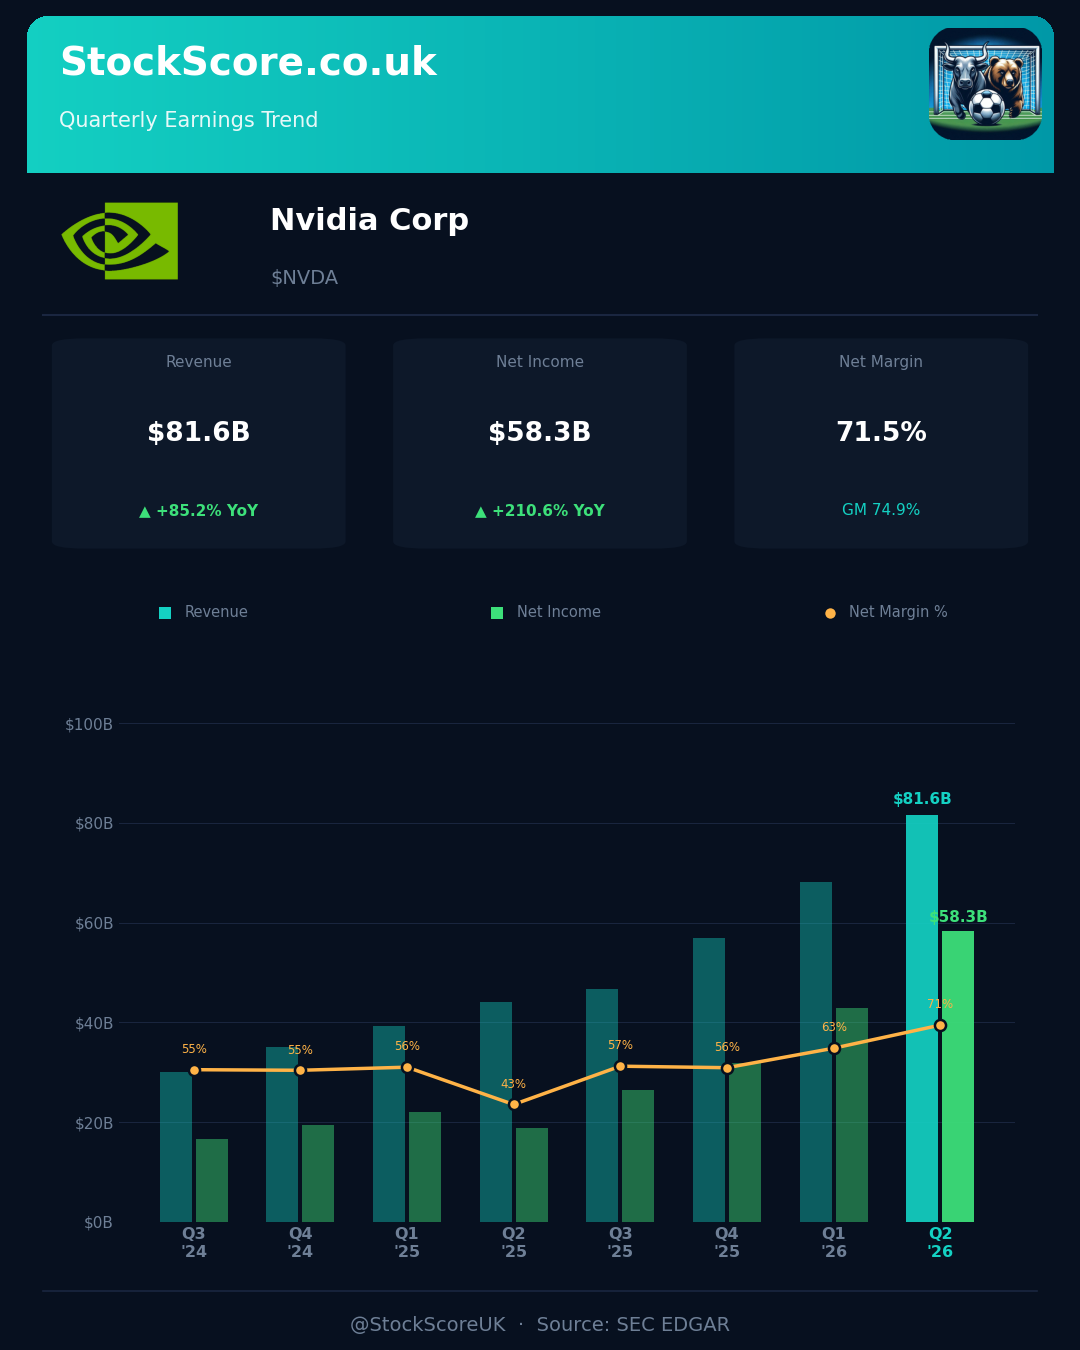
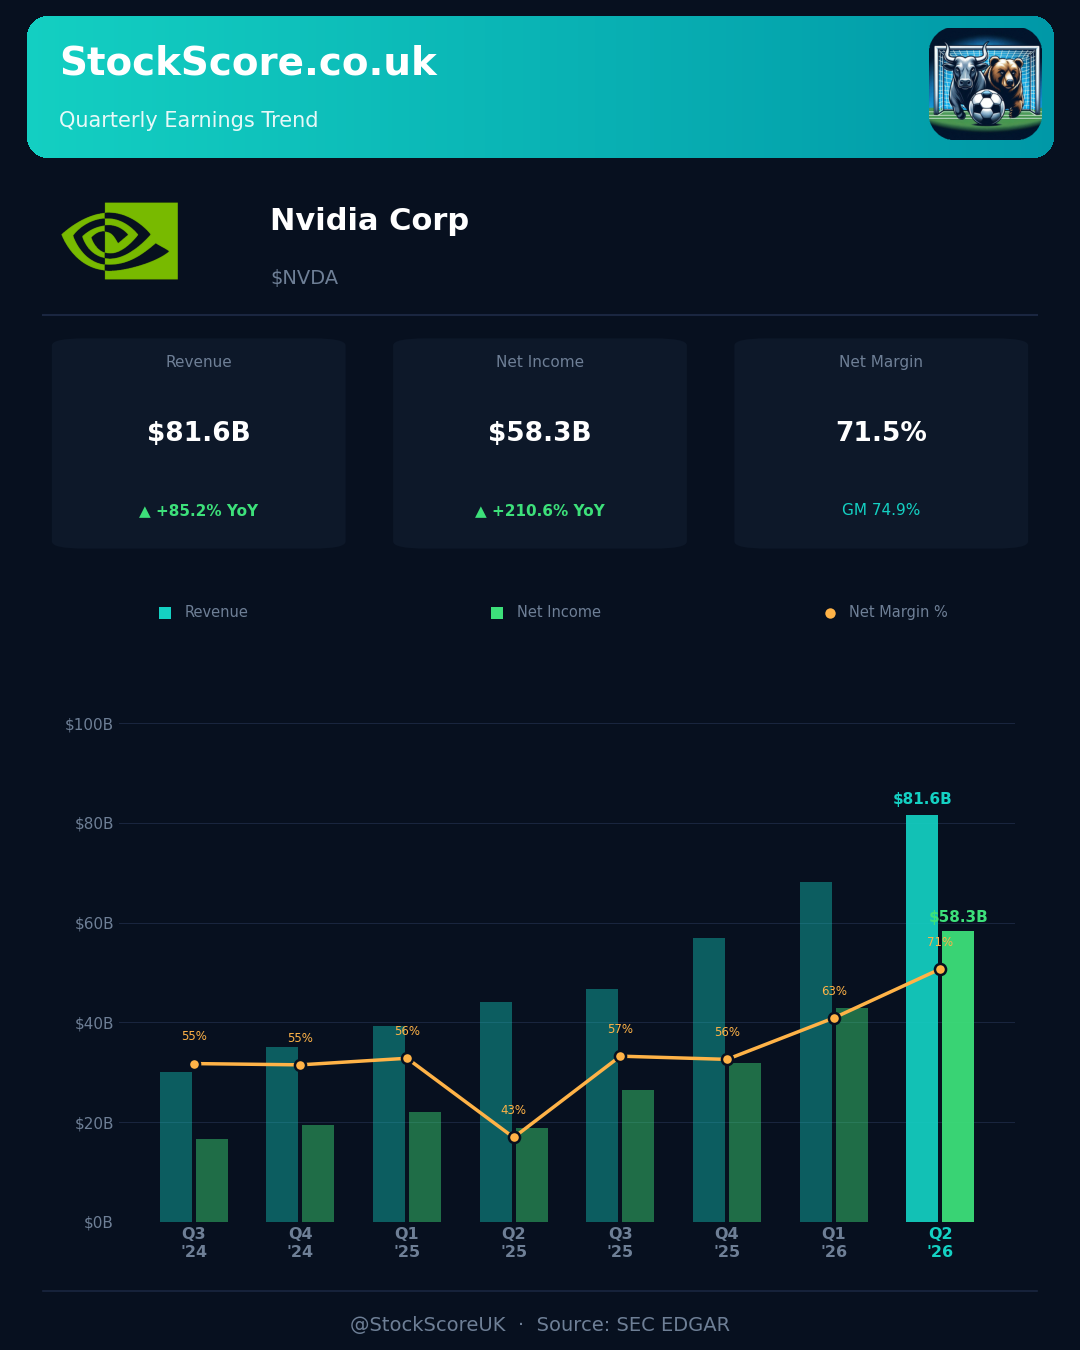
create new workflow for earnings trends

diff --git a/scripts/sec_trend_chart.py b/scripts/sec_trend_chart.py
@@ -263,14 +263,13 @@ def apply_rounded_header(filepath: str, corner_r: int = 20):
     card_xl = round(w * 0.025)
     card_xr = w - card_xl
     card_yt = round(hdr_h * 0.09)
-    card_yb = hdr_h - 1   # card ends at last header row — never bleeds below
+    card_yb = hdr_h - card_yt  # equal padding top and bottom
 
     mask = Image.new("L", (w, h), 0)
     draw = ImageDraw.Draw(mask)
-    # Rounded rect (all 4 corners), then fill the bottom band to make bottom straight.
+    # All 4 corners rounded — card now floats with equal padding above and below.
     draw.rounded_rectangle([card_xl, card_yt, card_xr, card_yb],
                             radius=corner_r, fill=255)
-    draw.rectangle([card_xl, card_yb - corner_r, card_xr, card_yb], fill=255)
     # Preserve everything below the header boundary (company strip, chart, footer).
     draw.rectangle([0, hdr_h, w, h], fill=255)
 
@@ -477,18 +476,26 @@ def build_figure(quarters: list, company: str, ticker: str,
         pad = my_range * 0.5
         ax2.set_ylim(min(my) - pad, max(my) + pad * 4)
 
-    # Y axis — extend below zero when net income dips negative
+    # Y axis — top covers both revenue and net income; bottom uses IQR fence
+    # to prevent a single extreme loss quarter from collapsing the scale.
     max_rev      = revenues.max() if len(revenues) else 1
-    min_ni       = net_incomes.min()
-    y_bottom     = min(0.0, min_ni * 1.3)
-    use_billions = max_rev >= 1e9
-    if use_billions and max_rev < 10e9:
+    y_top        = max(max_rev, net_incomes.max()) * 1.45
+
+    ni_sorted    = np.sort(net_incomes)
+    q1, q3       = np.percentile(ni_sorted, 25), np.percentile(ni_sorted, 75)
+    iqr          = q3 - q1
+    lower_fence  = q1 - 3 * iqr if iqr > 0 else net_incomes.min()
+    y_bottom     = min(0.0, max(net_incomes.min(), lower_fence) * 1.3)
+
+    y_range      = y_top - y_bottom
+    use_billions = y_range >= 1e9
+    if use_billions and y_range < 10e9:
         fmt_fn = lambda v, _: f"${v/1e9:.1f}B"
     elif use_billions:
         fmt_fn = lambda v, _: f"${v/1e9:.0f}B"
     else:
         fmt_fn = lambda v, _: f"${v/1e6:.0f}M"
-    ax.set_ylim(y_bottom, max_rev * 1.45)
+    ax.set_ylim(y_bottom, y_top)
     ax.yaxis.set_major_formatter(mticker.FuncFormatter(fmt_fn))
     ax.tick_params(axis="y", colors=C["grey"], labelsize=11, length=0)
     ax.tick_params(axis="x", length=0)

diff --git a/scripts/generate_earnings_charts.py b/scripts/generate_earnings_charts.py
@@ -76,9 +76,31 @@ def check_recent_filing(cik: str, days: int = 2) -> str | None:
     return None
 
 
+def fetch_logo(ticker: str) -> None:
+    """Download logo from FMP if not already in logos/."""
+    logo_dir = ROOT / "logos"
+    logo_dir.mkdir(exist_ok=True)
+    out = logo_dir / f"{ticker}.png"
+    if out.exists():
+        return
+    try:
+        r = requests.get(
+            f"https://financialmodelingprep.com/image-stock/{ticker}.png",
+            timeout=10,
+        )
+        if r.status_code == 200 and r.headers.get("content-type", "").startswith("image"):
+            out.write_bytes(r.content)
+            print(f"  logo downloaded → logos/{ticker}.png")
+        else:
+            print(f"  no logo found for {ticker} (HTTP {r.status_code})")
+    except Exception as e:
+        print(f"  logo download failed: {e}")
+
+
 def generate_chart(ticker: str, cik: str, company: str, out_path: Path) -> list | None:
     """Fetch EDGAR facts, render chart to out_path. Returns quarters list or None."""
     try:
+        fetch_logo(ticker)
         facts    = fetch_facts(cik)
         quarters = build_trend(facts, 8)
         if len(quarters) < 2:

diff --git a/scripts/post_earnings_charts.py b/scripts/post_earnings_charts.py
@@ -33,13 +33,13 @@ def build_caption(d: dict, max_chars: int) -> str:
 
     if d.get("revenue") and d["revenue"] != "N/A":
         pct = d.get("rev_yoy_pct")
-        arrow = ("▲" if pct >= 0 else "▼") if pct is not None else ""
+        arrow = ("🟢 ▲" if pct >= 0 else "🔴 ▼") if pct is not None else ""
         yoy = f"  {arrow} {pct:+.1f}% YoY" if pct is not None else ""
         lines.append(f"Revenue: {d['revenue']}{yoy}")
 
     if d.get("net_income") and d["net_income"] != "N/A":
         pct = d.get("ni_yoy_pct")
-        arrow = ("▲" if pct >= 0 else "▼") if pct is not None else ""
+        arrow = ("🟢 ▲" if pct >= 0 else "🔴 ▼") if pct is not None else ""
         yoy = f"  {arrow} {pct:+.1f}% YoY" if pct is not None else ""
         lines.append(f"Net Income: {d['net_income']}{yoy}")
 